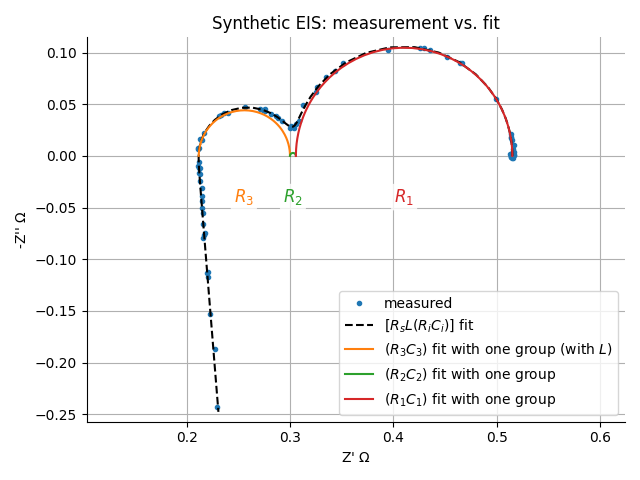
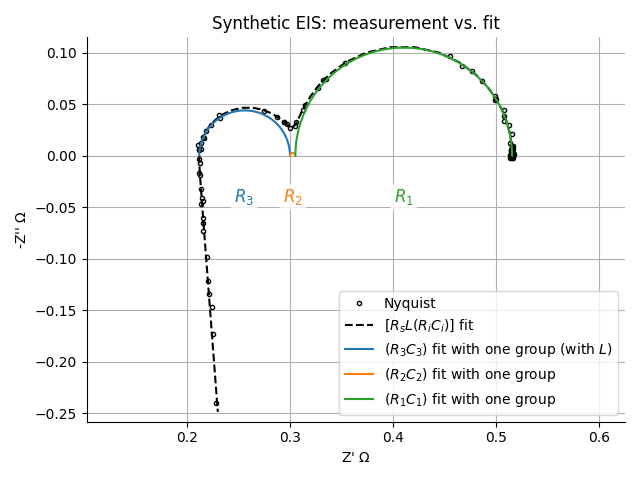
Docs example update

diff --git a/src/blowing_bubbles/classes/data_classes.py b/src/blowing_bubbles/classes/data_classes.py
@@ -6,7 +6,7 @@ the R–CPE ladder using iterative fast branch building.
 
 from __future__ import annotations
 
-from typing import TYPE_CHECKING, cast
+from typing import TYPE_CHECKING, Any, cast
 
 import numpy as np
 
@@ -64,6 +64,7 @@ class EISData:
         self.normalized = "NO"
         self.normalization_area = 1
         self.norm_unit = ""
+        self.unit = ""
 
     @classmethod
     def from_csv(
@@ -170,6 +171,9 @@ class EISData:
         freq_names = ["f", "freq", "frequency"]
         real_names = ["r", "real", "real_part"]
         imag_names = ["i", "imag", "imaginary", "imaginary_part"]
+        R_key: str | None = None
+        I_key: str | None = None
+        F_key: str | None = None
         for key in self.data.keys():
             if any(name in key.lower() for name in freq_names):
                 F_key = key
@@ -318,25 +322,30 @@ class EISData:
     def plot_nyquist(
         self,
         axes: plt.Axes | None = None,
+        **plot_kwargs: Any,
     ) -> tuple[Figure, plt.Axes]:
         """Plot measured EIS on an existing subplot.
 
         This method reuses an existing axes instead of opening a new figure.
         """
         import matplotlib.pyplot as plt
+        from matplotlib.figure import Figure
 
         if axes is None:
             fig, axes = plt.subplots()
         else:
             fig = axes.figure
 
-        axes.plot(
-            self.data,
-            label="Nyquist",
-            marker="o",
-            marker_size=3,
-            linestyle="",
-        )
+        kwargs: dict[str, Any] = dict(plot_kwargs)
+        kwargs.setdefault("label", "Nyquist")
+        kwargs.setdefault("marker", "o")
+        kwargs.setdefault("markersize", 5)
+        kwargs.setdefault("linestyle", "")
+        kwargs.setdefault("color", "black")
+        kwargs.setdefault("markerfacecolor", "none")
+   
+
+        axes.plot(self.Real, -self.Imag, **kwargs)
         axes.set_xlabel(r"Z' [" + self.unit + "]")
         axes.set_ylabel(r"-Z'' [" + self.unit + "]")
         return cast(Figure, fig), axes

diff --git a/docs/auto_examples/plot_circuit_demo.py b/docs/auto_examples/plot_circuit_demo.py
@@ -80,14 +80,7 @@ freqs_plot = np.logspace(-5, 5, 100)
 unit = r"$\Omega$"
 
 fig, ax = plt.subplots()
-ax.plot(
-    eis_data.Real,
-    -eis_data.Imag,
-    linestyle="",
-    marker="o",
-    markersize=3,
-    label="measured",
-)
+eis_data.plot_nyquist(axes=ax)
 fit_result.parameters.plot_full_fit(freqs_plot, ax, unit=unit)
 ax.legend()
 ax.set_title("Synthetic EIS: measurement vs. fit")

diff --git a/examples/plot_circuit_demo.py b/examples/plot_circuit_demo.py
@@ -80,14 +80,7 @@ freqs_plot = np.logspace(-5, 5, 100)
 unit = r"$\Omega$"
 
 fig, ax = plt.subplots()
-ax.plot(
-    eis_data.Real,
-    -eis_data.Imag,
-    linestyle="",
-    marker="o",
-    markersize=3,
-    label="measured",
-)
+eis_data.plot_nyquist(axes=ax)
 fit_result.parameters.plot_full_fit(freqs_plot, ax, unit=unit)
 ax.legend()
 ax.set_title("Synthetic EIS: measurement vs. fit")

diff --git a/docs/auto_examples/plot_circuit_demo.rst b/docs/auto_examples/plot_circuit_demo.rst
@@ -132,38 +132,38 @@ Fit the circuit (IFBB: start from peaks, grow branches up to ``rc_groups``)
 
     Fitting started (2 peaks -> up to 3 R–CPE branches)...
     Initial fit with 2 groups
-      Resistance Source:        5.1572e-01
-      Inductance:               3.9524e-07
+      Resistance Source:        2.1839e-01
+      Inductance:               3.9734e-07
       Inductance Exponent:      1.0000e+00
-      Resistances:            [2.8877e-01 2.8804e-01]
-      Capacitances:           [3.4950e-01 3.2773e+00]
+      Resistances:            [2.8714e-01 9.2739e-03]
+      Capacitances:           [1.5016e+00 1.3422e+02]
       Exponents:              [1.0000e+00 1.0000e+00]
-      Taus:                   [1.0093e-01 9.4401e-01]
+      Taus:                   [4.3116e-01 1.2448e+00]
 
     Fitting with 3 groups
        New parameters: 
-      Resistance Source:        2.1043e-01
-      Inductance:               3.9524e-07
+      Resistance Source:        2.1045e-01
+      Inductance:               3.8548e-07
       Inductance Exponent:      9.0000e-01
-      Resistances:            [9.3586e-02 8.7208e-04 2.1115e-01]
-      Capacitances:           [1.4588e-02 1.5580e+01 6.0867e-01]
-      Exponents:              [9.7878e-01 1.0000e+00 9.9486e-01]
-      Taus:                   [1.3653e-03 1.3587e-02 1.2852e-01]
+      Resistances:            [4.1221e-04 9.3388e-02 2.1141e-01]
+      Capacitances:           [5.0722e-02 1.4772e-02 6.0366e-01]
+      Exponents:              [1.0000e+00 9.7834e-01 9.9558e-01]
+      Taus:                   [2.0908e-05 1.3795e-03 1.2762e-01]
     
-       New cost: 8.466952686048719e-05
-       Old cost: 9.2054935833417e-05
-       Cost improvement: -7.385408972929806e-06
-       Cost improvement percentage: -8.022827788717896%
-    Fitting completed in 7.47 s.
+       New cost: 8.379647899861582e-05
+       Old cost: 8.738970766432556e-05
+       Cost improvement: -3.593228665709744e-06
+       Cost improvement percentage: -4.111729815497004%
+    Fitting completed in 6.17 s.
     Success: True
-    Final cost: 8.466953e-05
-      Resistance Source:        2.1063e-01
-      Inductance:               7.8476e-07
-      Inductance Exponent:      9.4872e-01
-      Resistances:            [8.9277e-02 5.7238e-03 2.0947e-01]
-      Capacitances:           [1.2617e-02 1.2953e+00 6.1278e-01]
-      Exponents:              [1.0000e+00 1.0000e+00 1.0000e+00]
-      Taus:                   [1.1264e-03 7.4140e-03 1.2836e-01]
+    Final cost: 8.379648e-05
+      Resistance Source:        2.1078e-01
+      Inductance:               7.5592e-07
+      Inductance Exponent:      9.5175e-01
+      Resistances:            [8.8912e-02 5.2123e-03 2.1030e-01]
+      Capacitances:           [1.2717e-02 1.2729e+00 6.0735e-01]
+      Exponents:              [9.9976e-01 1.0000e+00 9.9867e-01]
+      Taus:                   [1.1307e-03 6.6347e-03 1.2773e-01]
 
 
 
@@ -173,7 +173,7 @@ Fit the circuit (IFBB: start from peaks, grow branches up to ``rc_groups``)
 
 Nyquist plot: measured points and full-model overlay
 
-.. GENERATED FROM PYTHON SOURCE LINES 78-96
+.. GENERATED FROM PYTHON SOURCE LINES 78-89
 
 .. code-block:: Python
 
@@ -182,14 +182,7 @@ Nyquist plot: measured points and full-model overlay
     unit = r"$\Omega$"
 
     fig, ax = plt.subplots()
-    ax.plot(
-        eis_data.Real,
-        -eis_data.Imag,
-        linestyle="",
-        marker="o",
-        markersize=3,
-        label="measured",
-    )
+    eis_data.plot_nyquist(axes=ax)
     fit_result.parameters.plot_full_fit(freqs_plot, ax, unit=unit)
     ax.legend()
     ax.set_title("Synthetic EIS: measurement vs. fit")
@@ -210,7 +203,7 @@ Nyquist plot: measured points and full-model overlay
 
 .. rst-class:: sphx-glr-timing
 
-   **Total running time of the script:** (0 minutes 9.226 seconds)
+   **Total running time of the script:** (0 minutes 8.225 seconds)
 
 
 .. _sphx_glr_download_auto_examples_plot_circuit_demo.py:

diff --git a/docs/sg_execution_times.rst b/docs/sg_execution_times.rst
@@ -6,7 +6,7 @@
 
 Computation times
 =================
-**00:09.226** total execution time for 1 file **from all galleries**:
+**00:08.225** total execution time for 1 file **from all galleries**:
 
 .. container::
 
@@ -33,5 +33,5 @@ Computation times
      - Time
      - Mem (MB)
    * - :ref:`sphx_glr_auto_examples_plot_circuit_demo.py` (``..\examples\plot_circuit_demo.py``)
-     - 00:09.226
+     - 00:08.225
      - 0.0

diff --git a/docs/auto_examples/sg_execution_times.rst b/docs/auto_examples/sg_execution_times.rst
@@ -6,7 +6,7 @@
 
 Computation times
 =================
-**00:09.226** total execution time for 1 file **from auto_examples**:
+**00:08.225** total execution time for 1 file **from auto_examples**:
 
 .. container::
 
@@ -33,5 +33,5 @@ Computation times
      - Time
      - Mem (MB)
    * - :ref:`sphx_glr_auto_examples_plot_circuit_demo.py` (``plot_circuit_demo.py``)
-     - 00:09.226
+     - 00:08.225
      - 0.0
